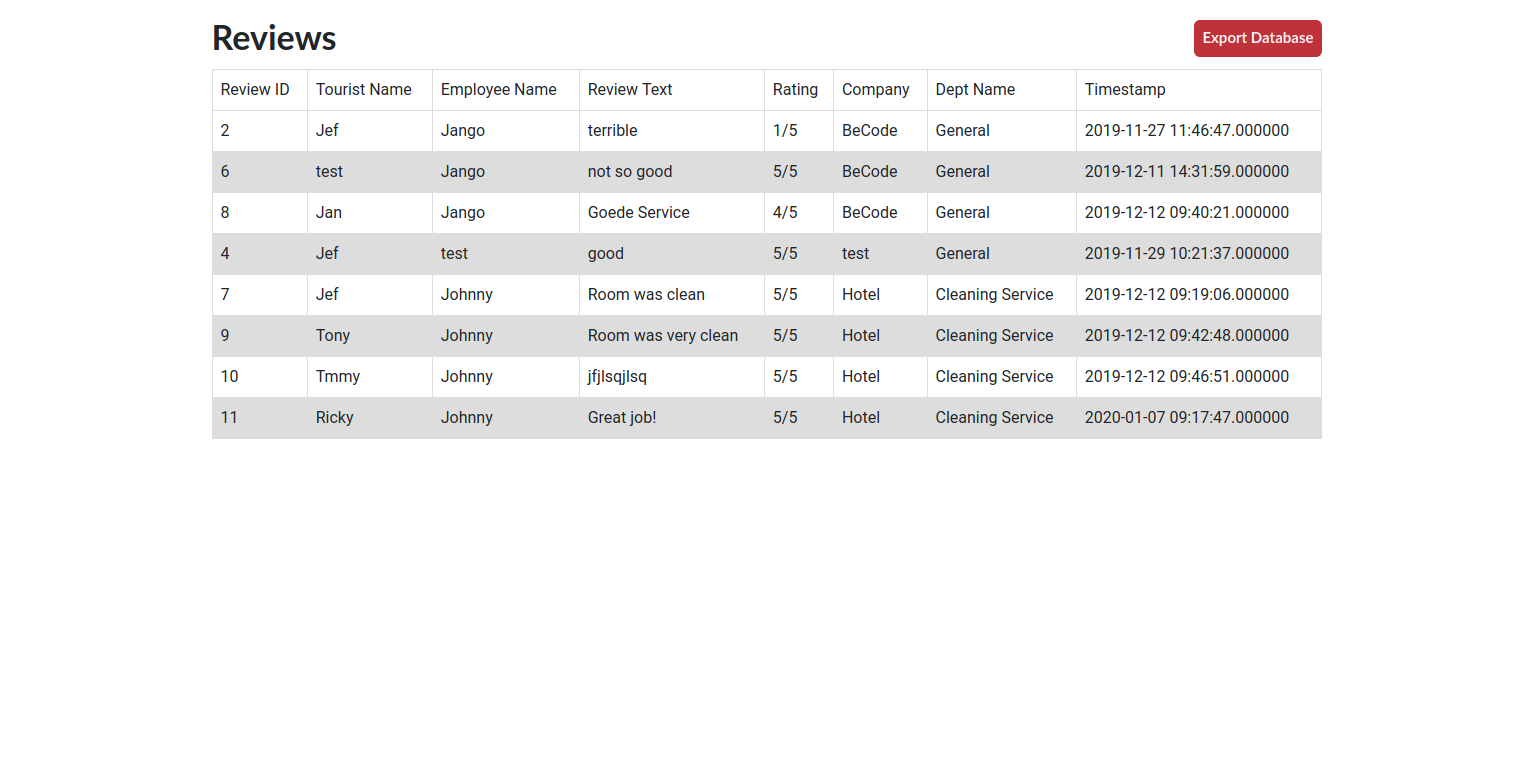
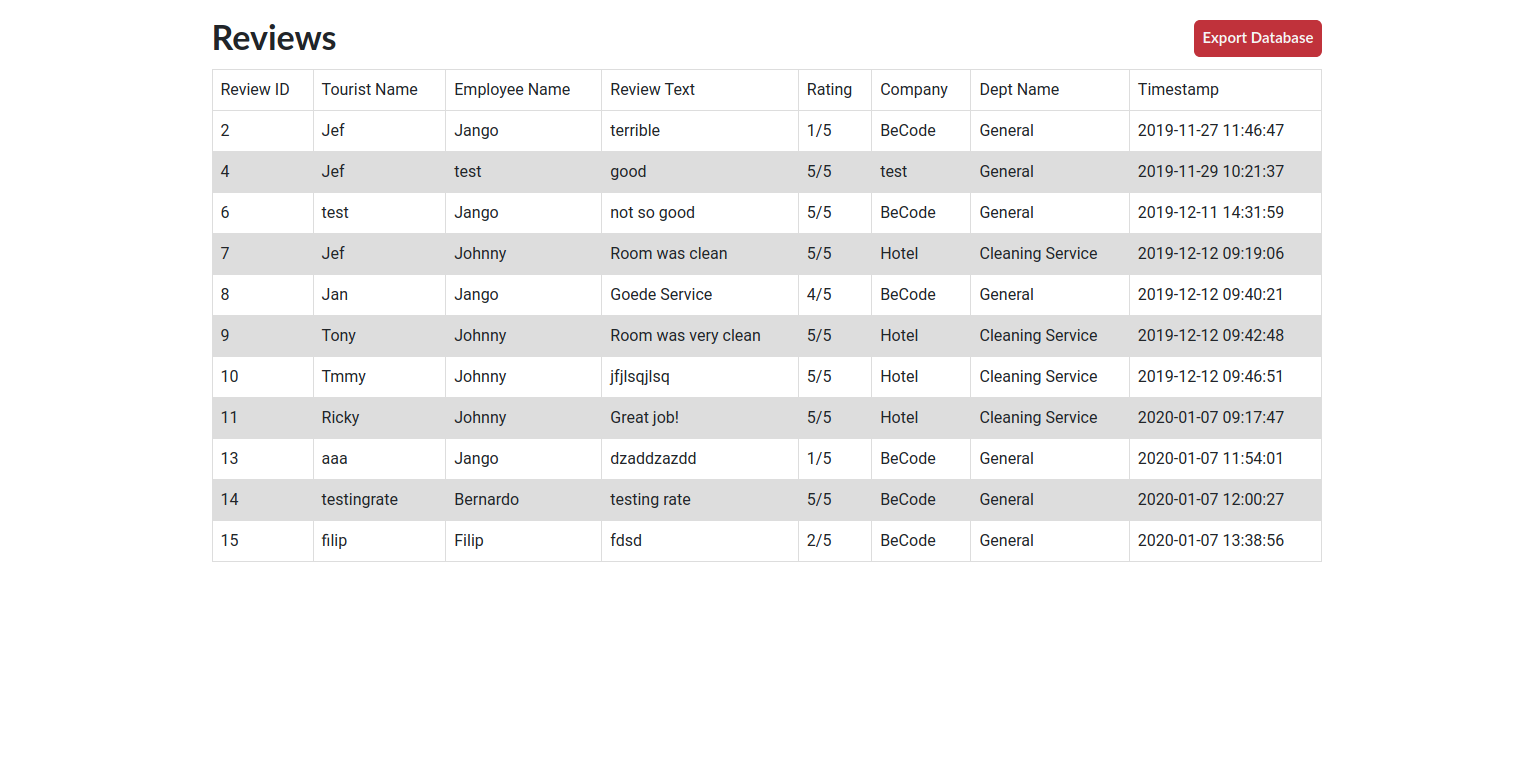
fixed managerpage timestamp and updated screenshot

diff --git a/ManagerPage/Model/ManConnection.php b/ManagerPage/Model/ManConnection.php
@@ -23,7 +23,8 @@ class ManConnection
 
     public function getReviews()
     {
-        $sql = 'SELECT * FROM mydb.Review JOIN mydb.Department ON Department.id_Department = Review.Department_id_Department
+        $sql = 'SELECT id_Review, Tourist_Name, Employees_Name, Review_text, Review_Rating, Company_Name, Department_Name, Timestamp 
+                FROM mydb.Review JOIN mydb.Department ON Department.id_Department = Review.Department_id_Department
                                           JOIN mydb.Employees ON Employees.id_Employees = Review.Employees_id_Employees
                                           JOIN mydb.Company ON Review.Company_Company_id = Company.Company_id
                                           JOIN mydb.Tourist ON Review.Tourist_id_Tourist = Tourist.id_Tourist
